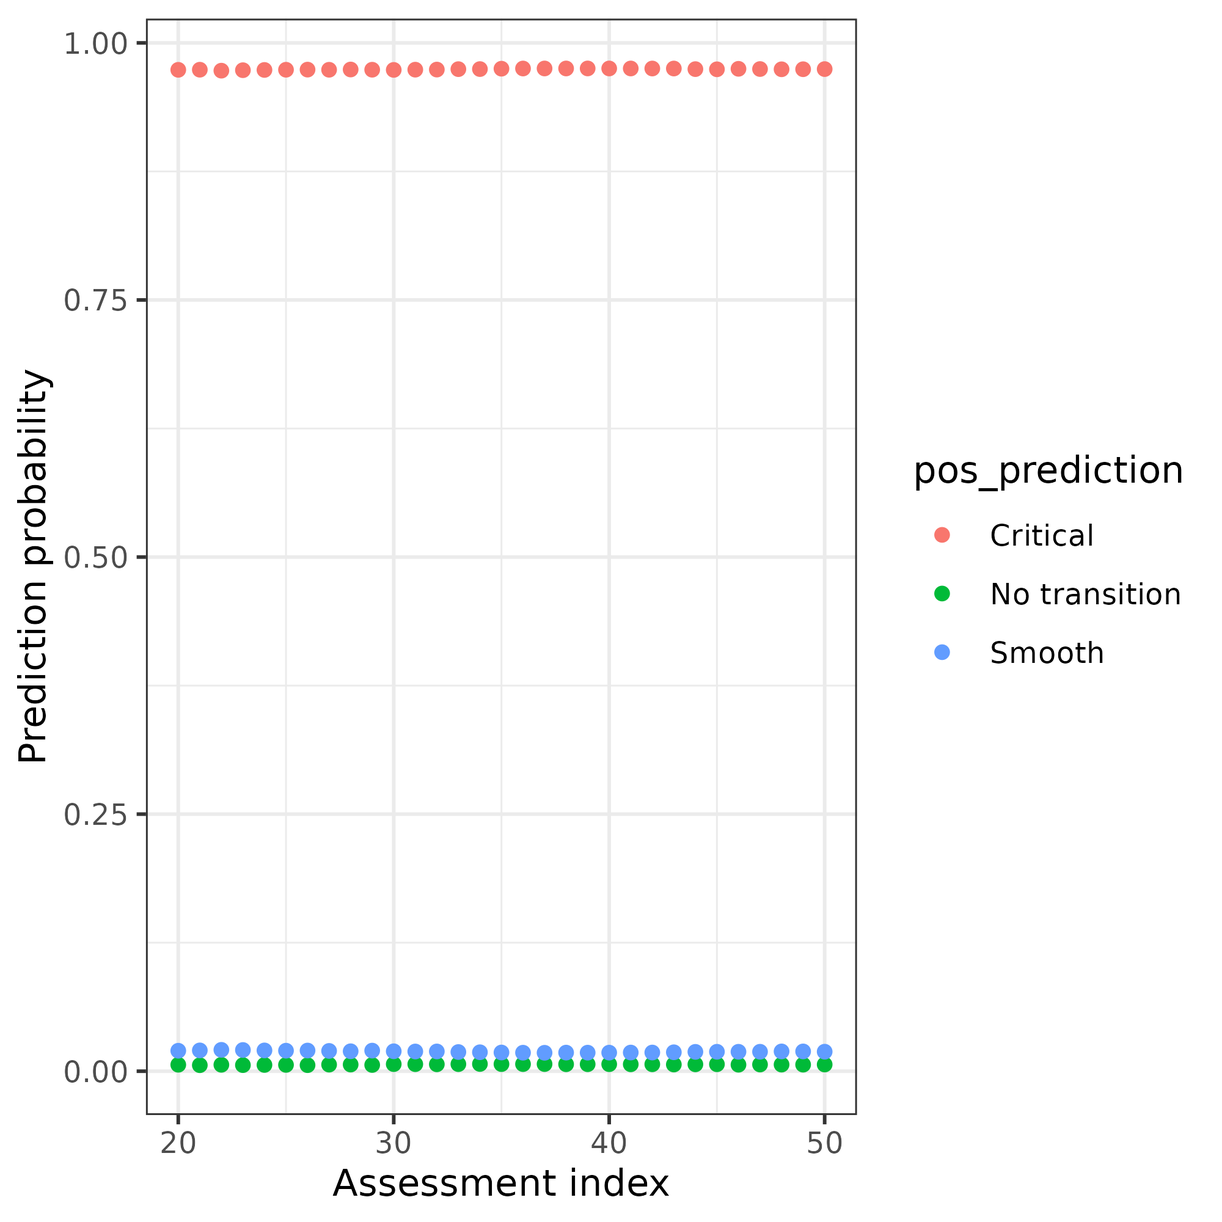
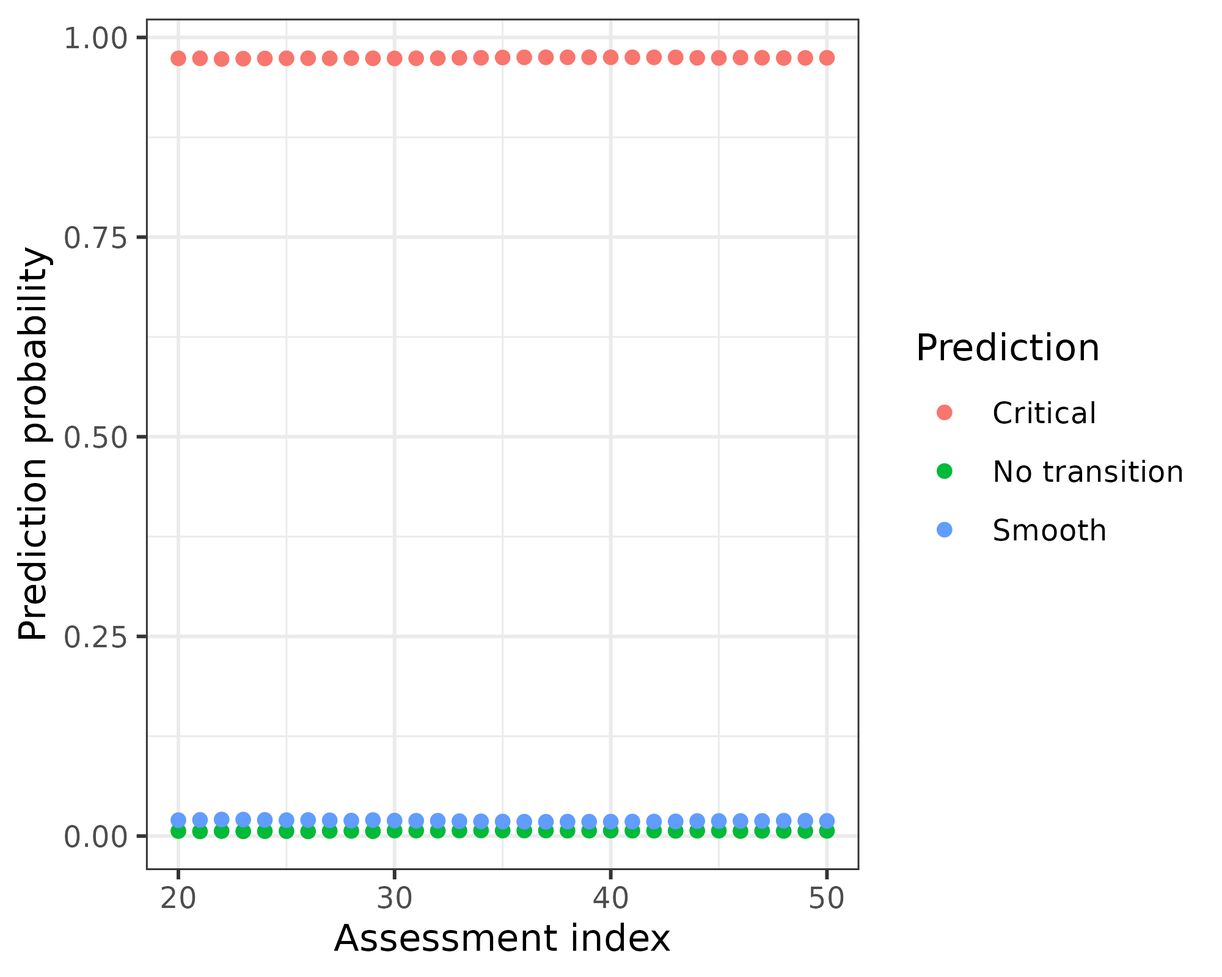
Deploying to gh-pages from @ duncanobrien/EWSmethods@8f3fbf997d17ccd20e7acf4d56fad8eb17029129 🚀

diff --git a/articles/using_ewsnet.html b/articles/using_ewsnet.html
@@ -114,7 +114,8 @@
 <p>Rather than requiring the user to learn <code>reticulate</code> and setup the R session themselves, <code>EWSmethods</code> provides a single function capable of checking your machine for Python, installing it if it’s not found (along with the critical packages), creating a new Python environment to hold these packages, and then activating that environment when ready. To prevent the user accidentally installing Python or packages, the function does require confirmation inputs from the user and so needs to be run <strong>at the start of any new R session</strong>.</p>
 <p>For example, to create a new Python environment called <code>"EWSNET_env"</code> and install Python, the function would be written as below. The environment name (<code>"EWSNET_env"</code>) will be critical to running the later functions.</p>
 <div class="sourceCode" id="cb2"><pre class="downlit sourceCode r">
-<code class="sourceCode R"><span><span class="fu"><a href="../reference/EWSNET_init.html">ewsnet_init</a></span><span class="op">(</span>envname <span class="op">=</span> <span class="st">"EWSNET_env"</span>, pip_ignore_installed <span class="op">=</span> <span class="cn">FALSE</span>,  conda_refresh <span class="op">=</span> <span class="cn">FALSE</span>, auto<span class="op">=</span><span class="cn">T</span><span class="op">)</span> <span class="co">#prepares your session using 'reticulate' and asks to install Anaconda (if no appropriate Python found) and/or a Python environment before activating that environment with the necessary Python packages</span></span>
+<code class="sourceCode R"><span><span class="co">#prepares your session using 'reticulate' and asks to install Anaconda (if no appropriate Python found) and/or a Python environment before activating that environment with the necessary Python packages</span></span>
+<span><span class="fu"><a href="../reference/EWSNET_init.html">ewsnet_init</a></span><span class="op">(</span>envname <span class="op">=</span> <span class="st">"EWSNET_env"</span>, pip_ignore_installed <span class="op">=</span> <span class="cn">FALSE</span>,  conda_refresh <span class="op">=</span> <span class="cn">FALSE</span>, auto<span class="op">=</span><span class="cn">TRUE</span><span class="op">)</span> </span>
 <span><span class="co">#&gt; + '/usr/share/miniconda/bin/conda' 'create' '--yes' '--name' 'EWSNET_env' 'python=3.8' '--quiet'</span></span>
 <span><span class="co">#&gt; EWSNET_env successfully installed and activated. Necessary python packages installed</span></span></code></pre></div>
 <p>If successful, you will see the message <code>"EWSNET_env successfully found and activated. Necessary Python packages installed"</code>). If not, please refer to the Troubleshooting section at the end of the tutorial.</p>
@@ -122,6 +123,7 @@
 <div class="sourceCode" id="cb3"><pre class="downlit sourceCode r">
 <code class="sourceCode R"><span><span class="kw"><a href="https://rdrr.io/r/base/library.html" class="external-link">library</a></span><span class="op">(</span><span class="va"><a href="https://rstudio.github.io/reticulate/" class="external-link">reticulate</a></span><span class="op">)</span></span>
 <span></span>
+<span><span class="co">#print which Python environment `EWSmethods` is using</span></span>
 <span><span class="fu">reticulate</span><span class="fu">::</span><span class="fu"><a href="https://rstudio.github.io/reticulate/reference/py_config.html" class="external-link">py_config</a></span><span class="op">(</span><span class="op">)</span></span>
 <span><span class="co">#&gt; python:         /usr/share/miniconda/envs/EWSNET_env/bin/python</span></span>
 <span><span class="co">#&gt; libpython:      /usr/share/miniconda/envs/EWSNET_env/lib/libpython3.8.so</span></span>
@@ -132,7 +134,8 @@
 <span><span class="co">#&gt; </span></span>
 <span><span class="co">#&gt; NOTE: Python version was forced by use_python function</span></span>
 <span></span>
-<span><span class="va">py_packages</span> <span class="op">&lt;-</span> <span class="fu">reticulate</span><span class="fu">::</span><span class="fu"><a href="https://rstudio.github.io/reticulate/reference/py_list_packages.html" class="external-link">py_list_packages</a></span><span class="op">(</span><span class="op">)</span> <span class="co">#list all packages currently loaded in to "EWSNET_env"</span></span>
+<span><span class="co">#list all packages currently loaded in to "EWSNET_env"</span></span>
+<span><span class="va">py_packages</span> <span class="op">&lt;-</span> <span class="fu">reticulate</span><span class="fu">::</span><span class="fu"><a href="https://rstudio.github.io/reticulate/reference/py_list_packages.html" class="external-link">py_list_packages</a></span><span class="op">(</span><span class="op">)</span> </span>
 <span><span class="fu"><a href="https://rdrr.io/r/utils/head.html" class="external-link">head</a></span><span class="op">(</span><span class="va">py_packages</span><span class="op">)</span></span>
 <span><span class="co">#&gt;         package version       requirement   channel</span></span>
 <span><span class="co">#&gt; 1 _libgcc_mutex     0.1 _libgcc_mutex=0.1 pkgs/main</span></span>
@@ -151,11 +154,7 @@
 <code class="sourceCode R"><span><span class="va">test_data</span> <span class="op">&lt;-</span> <span class="fu"><a href="https://rdrr.io/r/stats/Normal.html" class="external-link">rnorm</a></span><span class="op">(</span><span class="fl">50</span>,mean <span class="op">=</span> <span class="fl">0</span>, sd<span class="op">=</span><span class="fl">2</span><span class="op">)</span></span>
 <span></span>
 <span><span class="fu"><a href="https://rdrr.io/r/graphics/plot.default.html" class="external-link">plot</a></span><span class="op">(</span><span class="va">test_data</span><span class="op">)</span></span></code></pre></div>
-<div class="figure">
-<img src="using_ewsnet_files/figure-html/create_white_data-1.png" alt="Our white noise training data" width="1000"><p class="caption">
-Our white noise training data
-</p>
-</div>
+<p><img src="using_ewsnet_files/figure-html/create_white_data-1.png" width="1000"></p>
 <p>We then simply provide this vector to <code><a href="../reference/ewsnet_predict.html">ewsnet_predict()</a></code> while also specifying the Python environment, the scaling of the data and ensemble number (how many models to average the prediction over).</p>
 <div class="sourceCode" id="cb5"><pre class="downlit sourceCode r">
 <code class="sourceCode R"><span><span class="va">ewsnet_prediction</span> <span class="op">&lt;-</span> <span class="fu"><a href="../reference/ewsnet_predict.html">ewsnet_predict</a></span><span class="op">(</span><span class="va">test_data</span>,noise_type <span class="op">=</span> <span class="st">"W"</span>, ensemble <span class="op">=</span> <span class="fl">25</span>, envname <span class="op">=</span> <span class="st">"EWSNET_env"</span><span class="op">)</span> </span>
@@ -166,37 +165,37 @@ Our white noise training data
 <div class="section level4">
 <h4 id="interpreting-ewsnet">Interpreting EWSNet<a class="anchor" aria-label="anchor" href="#interpreting-ewsnet"></a>
 </h4>
-<p>As with any machine learning model, interpreting prediction probabilities is difficult. In EWSNet’s case, as three possible predictions can be made - _No transition, Smooth transition, Critical transition__ - a chance prediction is one that is approximately 0.33 (1.0 divided by 3 is ~0.33).</p>
+<p>As with any machine learning model, interpreting prediction probabilities is difficult. In EWSNet’s case, as three possible predictions can be made - <em>No transition, Smooth transition, Critical transition</em> - a chance prediction is one that is approximately 0.33 (1.0 divided by 3 is ~0.33).</p>
 <p>Therefore any probability greater than 0.33 implies a stronger than chance prediction and anything greater than 0.6 warrants serious scrutiny.</p>
-<p>Similarly, the real world manifestation of a Smooth or Critical transition is vague (Kefi <em>et al</em> 2013, Gsell <em>et al</em> 2016). EWSNet therefore considers a <code>"Smooth Transition"</code> prediction to indicate a directional trend in the system whereas a <code>"Critical Transition"</code> indicates a rapid non-linear change. A <code>"No Transition"</code> prediction consequently suggests a stable period.</p>
+<p>Similarly, the real world manifestation of a Smooth or Critical transition is unclear (Kefi <em>et al</em> 2013, Gsell <em>et al</em> 2016). EWSNet therefore considers a <code>"Smooth Transition"</code> prediction to indicate a directional trend in the system whereas a <code>"Critical Transition"</code> indicates a rapid non-linear change. A <code>"No Transition"</code> prediction consequently suggests a stable period.</p>
 </div>
 <div class="section level4">
 <h4 id="predictions-through-time">Predictions through time<a class="anchor" aria-label="anchor" href="#predictions-through-time"></a>
 </h4>
 <p>An additional way to use EWSNet is to explore how predictions change through time. By iteratively adding in new data, we can see how those predictions evolve.</p>
-<p>For example, using our test data, we could achieve this using this code to identify transitions that may have happened in the past:</p>
+<p>For example, using our test data, we could use this code to identify transitions that may have happened in the past:</p>
 <div class="sourceCode" id="cb6"><pre class="downlit sourceCode r">
 <code class="sourceCode R"><span></span>
-<span><span class="va">expanding_range</span> <span class="op">&lt;-</span> <span class="fl">20</span><span class="op">:</span><span class="fu"><a href="https://rdrr.io/r/base/length.html" class="external-link">length</a></span><span class="op">(</span><span class="va">test_data</span><span class="op">)</span> <span class="co">#define the range of indexes to test over</span></span>
+<span><span class="co">#define the range of indexes to test over</span></span>
+<span><span class="va">expanding_range</span> <span class="op">&lt;-</span> <span class="fl">20</span><span class="op">:</span><span class="fu"><a href="https://rdrr.io/r/base/length.html" class="external-link">length</a></span><span class="op">(</span><span class="va">test_data</span><span class="op">)</span> </span>
 <span></span>
+<span><span class="co">#pre-define our out file</span></span>
 <span><span class="va">expanding_ewsnet</span> <span class="op">&lt;-</span> <span class="fu"><a href="https://rdrr.io/r/base/data.frame.html" class="external-link">data.frame</a></span><span class="op">(</span><span class="va">expanding_range</span>, <span class="fu"><a href="https://rdrr.io/r/base/matrix.html" class="external-link">matrix</a></span><span class="op">(</span><span class="cn">NA</span>,ncol<span class="op">=</span><span class="fl">3</span> <span class="op">)</span><span class="op">)</span> <span class="op">|&gt;</span></span>
-<span>  <span class="fu">`colnames&lt;-`</span><span class="op">(</span><span class="fu"><a href="https://rdrr.io/r/base/c.html" class="external-link">c</a></span><span class="op">(</span><span class="st">"cutoff_ind"</span>,<span class="st">"No transition"</span>,<span class="st">'Smooth'</span>,<span class="st">'Critical'</span><span class="op">)</span><span class="op">)</span> <span class="co">#pre-define our out file</span></span>
+<span>  <span class="fu">`colnames&lt;-`</span><span class="op">(</span><span class="fu"><a href="https://rdrr.io/r/base/c.html" class="external-link">c</a></span><span class="op">(</span><span class="st">"cutoff_ind"</span>,<span class="st">"No transition"</span>,<span class="st">'Smooth'</span>,<span class="st">'Critical'</span><span class="op">)</span><span class="op">)</span> </span>
 <span></span>
-<span><span class="kw">for</span><span class="op">(</span><span class="va">i</span> <span class="kw">in</span> <span class="fu"><a href="https://rdrr.io/r/base/seq.html" class="external-link">seq_along</a></span><span class="op">(</span><span class="va">expanding_range</span><span class="op">)</span><span class="op">)</span><span class="op">{</span> <span class="co">#use `ewsnet_predict()` for each index </span></span>
+<span><span class="co">#call `ewsnet_predict()` for each index </span></span>
+<span><span class="kw">for</span><span class="op">(</span><span class="va">i</span> <span class="kw">in</span> <span class="fu"><a href="https://rdrr.io/r/base/seq.html" class="external-link">seq_along</a></span><span class="op">(</span><span class="va">expanding_range</span><span class="op">)</span><span class="op">)</span><span class="op">{</span> </span>
 <span>  <span class="va">ews.tmp</span> <span class="op">&lt;-</span> <span class="fu"><a href="../reference/ewsnet_predict.html">ewsnet_predict</a></span><span class="op">(</span><span class="va">test_data</span><span class="op">[</span><span class="fl">1</span><span class="op">:</span><span class="va">expanding_range</span><span class="op">[</span><span class="va">i</span><span class="op">]</span><span class="op">]</span>,noise_type <span class="op">=</span> <span class="st">"W"</span>, ensemble <span class="op">=</span> <span class="fl">25</span>, envname <span class="op">=</span> <span class="st">"EWSNET_env"</span><span class="op">)</span> </span>
 <span>  </span>
 <span>  <span class="va">expanding_ewsnet</span><span class="op">[</span><span class="va">i</span>,<span class="op">]</span> <span class="op">&lt;-</span> <span class="fu"><a href="https://rdrr.io/r/base/c.html" class="external-link">c</a></span><span class="op">(</span><span class="va">expanding_range</span><span class="op">[</span><span class="va">i</span><span class="op">]</span>,<span class="va">ews.tmp</span><span class="op">$</span><span class="va">no_trans_prob</span>,<span class="va">ews.tmp</span><span class="op">$</span><span class="va">smooth_trans_prob</span>,<span class="va">ews.tmp</span><span class="op">$</span><span class="va">critical_trans_prob</span><span class="op">)</span></span>
 <span><span class="op">}</span></span>
 <span></span>
-<span><span class="fu">ggplot</span><span class="op">(</span><span class="va">expanding_ewsnet</span> <span class="op">|&gt;</span> <span class="fu">pivot_longer</span><span class="op">(</span><span class="op">-</span><span class="va">cutoff_ind</span>,names_to <span class="op">=</span> <span class="st">"pos_prediction"</span>,values_to <span class="op">=</span> <span class="st">"prob"</span><span class="op">)</span>,</span>
+<span><span class="co">#plot the results</span></span>
+<span><span class="fu">ggplot</span><span class="op">(</span><span class="va">expanding_ewsnet</span> <span class="op">|&gt;</span> <span class="fu">pivot_longer</span><span class="op">(</span><span class="op">-</span><span class="va">cutoff_ind</span>,names_to <span class="op">=</span> <span class="st">"Prediction"</span>,values_to <span class="op">=</span> <span class="st">"prob"</span><span class="op">)</span>,</span>
 <span>                <span class="fu">aes</span><span class="op">(</span>x<span class="op">=</span><span class="va">cutoff_ind</span>,y<span class="op">=</span><span class="va">prob</span><span class="op">)</span><span class="op">)</span> <span class="op">+</span></span>
-<span>    <span class="fu">geom_point</span><span class="op">(</span><span class="fu">aes</span><span class="op">(</span>col<span class="op">=</span><span class="va">pos_prediction</span><span class="op">)</span><span class="op">)</span> <span class="op">+</span> <span class="fu">theme_bw</span><span class="op">(</span><span class="op">)</span> <span class="op">+</span></span>
+<span>    <span class="fu">geom_point</span><span class="op">(</span><span class="fu">aes</span><span class="op">(</span>col<span class="op">=</span><span class="va">Prediction</span><span class="op">)</span><span class="op">)</span> <span class="op">+</span> <span class="fu">theme_bw</span><span class="op">(</span><span class="op">)</span> <span class="op">+</span></span>
 <span>    <span class="fu">xlab</span><span class="op">(</span><span class="st">"Assessment index"</span><span class="op">)</span> <span class="op">+</span> <span class="fu">ylab</span><span class="op">(</span><span class="st">"Prediction probability"</span><span class="op">)</span></span></code></pre></div>
-<div class="figure">
-<img src="using_ewsnet_files/figure-html/expanding_ewsnet-1.png" alt="Changing EWSNet predictions through time" width="1000"><p class="caption">
-Changing EWSNet predictions through time
-</p>
-</div>
+<p><img src="using_ewsnet_files/figure-html/expanding_ewsnet-1.png" width="1000"></p>
 <p>Here we see how prediction probabilities fluctuate with new data, with the trends in probabilities also providing information on how the system has changed over time.</p>
 <p><br></p>
 </div>
@@ -210,12 +209,12 @@ Changing EWSNet predictions through time
 <div class="section level3">
 <h3 id="resetting-ewsnet">4. Resetting EWSNet<a class="anchor" aria-label="anchor" href="#resetting-ewsnet"></a>
 </h3>
-<p>Following finetuning, it may be desirable to reset the model weights to their default. Using the <code><a href="../reference/reset_ewsnet.html">reset_ewsnet()</a></code> function, the user can direct <code>EWSmethods</code> to the path of the default weights (these can be redownloaded from the <a href="(https://github.com/sahilsid/ewsnet)" class="external-link">EWSNet github</a> which will overwrite the current model weights stored by <code>EWSmethods</code>.</p>
+<p>Following finetuning, it may be desirable to reset the model weights to their default. Using the <code><a href="../reference/reset_ewsnet.html">reset_ewsnet()</a></code> function, the user can direct <code>EWSmethods</code> to the path of the default weights (these can be redownloaded from the <a href="https://github.com/sahilsid/ewsnet" class="external-link">EWSNet github</a>) which will overwrite the current model weights stored by <code>EWSmethods</code>.</p>
 <div class="sourceCode" id="cb7"><pre class="downlit sourceCode r">
 <code class="sourceCode R"><span><span class="fu"><a href="../reference/reset_ewsnet.html">reset_ewsnet</a></span><span class="op">(</span>new_weight_location <span class="op">=</span> <span class="st">"C:/Users/your_name/Downloads/Pretrained"</span><span class="op">)</span> <span class="co">#for Windows users</span></span>
 <span></span>
 <span><span class="fu"><a href="../reference/reset_ewsnet.html">reset_ewsnet</a></span><span class="op">(</span>new_weight_location <span class="op">=</span> <span class="st">"/Users/your_name/Downloads/Pretrained"</span><span class="op">)</span> <span class="co">#for Mac users</span></span></code></pre></div>
-<p>You may want to remove <code>EWSmethods</code> downloaded Python and environment. You can acheive this using <code><a href="../reference/EWSNET_init.html">ewsnet_init()</a></code> and the <code>conda_refresh =</code> argument.</p>
+<p>You may want to remove Python downloads and environment setup by <code>EWSmethods</code>. You can acheive this using <code><a href="../reference/EWSNET_init.html">ewsnet_init()</a></code> and the <code>conda_refresh =</code> argument.</p>
 <div class="sourceCode" id="cb8"><pre class="downlit sourceCode r">
 <code class="sourceCode R"><span><span class="fu"><a href="../reference/EWSNET_init.html">ewsnet_init</a></span><span class="op">(</span>envname <span class="op">=</span> <span class="st">"EWSNET_env"</span>,conda_refresh <span class="op">=</span> <span class="cn">TRUE</span><span class="op">)</span></span></code></pre></div>
 <p><br></p>
@@ -236,7 +235,7 @@ Changing EWSNet predictions through time
 <tbody>
 <tr class="odd">
 <td><code><a href="../reference/EWSNET_init.html">ewsnet_init()</a></code></td>
-<td>Prepares the session to interface with Python. <strong>Critical first step</strong>
+<td>Prepares the session to interface with Python. <em>Critical first step</em>
 </td>
 </tr>
 <tr class="even">
@@ -263,15 +262,15 @@ Changing EWSNet predictions through time
 <div class="section level3">
 <h3 id="reticulate-is-activating-a-different-environment-to-the-one-i-gave-to-ewsnet_init">1. <em><code>reticulate</code> is activating a different environment to the one I gave to <code>ewsnet_init()</code></em><a class="anchor" aria-label="anchor" href="#reticulate-is-activating-a-different-environment-to-the-one-i-gave-to-ewsnet_init"></a>
 </h3>
-<p>This is the main error when using <code>EWSmethods</code>. The first solution is to simply restart the R session and rerun <code><a href="../reference/EWSNET_init.html">ewsnet_init()</a></code>. If <code>reticulate</code> is loaded before <code><a href="../reference/EWSNET_init.html">ewsnet_init()</a></code> is run, then the default <code>reticulate</code> environment “r-reticulate’ is activated instead of your EWSNet environment. Therefore ensure no <code>reticulate</code> command or <code><a href="https://rstudio.github.io/reticulate/" class="external-link">library(reticulate)</a></code> is run prior to <code><a href="../reference/EWSNET_init.html">ewsnet_init()</a></code>.</p>
-<p>If the error remains and your RStudio version &gt;=1.4, you may need to edit your Python interpreter settings in RStudio’s preferences. Go to Preferences -&gt; Python and untick “Automatically activate project-level Python environments”. Then restart your R session and rerun <code><a href="../reference/EWSNET_init.html">ewsnet_init()</a></code>.</p>
-<p>The final solution we are aware of involves deactivating <code>reticulate</code>’s default behaviour in your global R environment settings. Running <code><a href="../reference/bypass_reticulate_autoinit.html">bypass_reticulate_autoinit()</a></code> will turn off <code>reticulate</code>’s to load a Python environment without a user request. Restart your R session and rerun <code><a href="../reference/EWSNET_init.html">ewsnet_init()</a></code> once ready.</p>
+<p>This is the main error when using <code>EWSmethods</code>. The first solution is to simply restart the R session and rerun <code><a href="../reference/EWSNET_init.html">ewsnet_init()</a></code>. If <code>reticulate</code> is loaded before <code><a href="../reference/EWSNET_init.html">ewsnet_init()</a></code> is run, then the default <code>reticulate</code> environment <code>"r-reticulate"</code> is activated instead of your EWSNet environment. Therefore ensure no <code>reticulate</code> command or <code><a href="https://rstudio.github.io/reticulate/" class="external-link">library(reticulate)</a></code> is run prior to <code><a href="../reference/EWSNET_init.html">ewsnet_init()</a></code>.</p>
+<p>If the error remains and your RStudio version is &gt;=1.4, you may need to edit your Python interpreter settings in RStudio’s preferences. Go to Preferences -&gt; Python and untick “Automatically activate project-level Python environments”. Then restart your R session and rerun <code><a href="../reference/EWSNET_init.html">ewsnet_init()</a></code>.</p>
+<p>The final solution we are aware of involves deactivating <code>reticulate</code>’s default behaviour in your global R environment settings. Running <code><a href="../reference/bypass_reticulate_autoinit.html">bypass_reticulate_autoinit()</a></code> will disable <code>reticulate</code>’s ability to load a Python environment without a user request. Restart your R session and rerun <code><a href="../reference/EWSNET_init.html">ewsnet_init()</a></code> once ready.</p>
 <p><br></p>
 </div>
 <div class="section level3">
 <h3 id="ewsnet_predict-is-returning-python-errors">2. <em><code>ewsnet_predict()</code> is returning Python errors</em><a class="anchor" aria-label="anchor" href="#ewsnet_predict-is-returning-python-errors"></a>
 </h3>
-<p>These errors are extremely difficult to debug through R . Fortunately, in our experience, such errors are legacies of previous issues such as incorrect initialising of the Python environment, the crashing of an R session or killing of the running function. The error is therefore often solved by restarting the R session and rerunning <code><a href="../reference/EWSNET_init.html">ewsnet_init()</a></code>.</p>
+<p>These errors are extremely difficult to debug through R . Fortunately, in our experience, such errors are legacies of previous issues such as incorrect initialising of the Python environment, the crashing of an R session, or killing of the running function. The error is therefore often solved by restarting the R session and rerunning <code><a href="../reference/EWSNET_init.html">ewsnet_init()</a></code>.</p>
 <p>If the error remains, please submit a bug report <a href="https://github.com/duncanobrien/EWSmethods/issues" class="external-link">here</a>.</p>
 <p><br></p>
 </div>

diff --git a/reference/EWSNET_init.html b/reference/EWSNET_init.html
@@ -60,7 +60,12 @@
 
     <div class="section level2">
     <h2 id="ref-usage">Usage<a class="anchor" aria-label="anchor" href="#ref-usage"></a></h2>
-    <div class="sourceCode"><pre class="sourceCode r"><code><span><span class="fu">ewsnet_init</span><span class="op">(</span><span class="va">envname</span>, pip_ignore_installed <span class="op">=</span> <span class="cn">FALSE</span>, conda_refresh <span class="op">=</span> <span class="cn">F</span>, auto <span class="op">=</span> <span class="cn">F</span><span class="op">)</span></span></code></pre></div>
+    <div class="sourceCode"><pre class="sourceCode r"><code><span><span class="fu">ewsnet_init</span><span class="op">(</span></span>
+<span>  <span class="va">envname</span>,</span>
+<span>  pip_ignore_installed <span class="op">=</span> <span class="cn">FALSE</span>,</span>
+<span>  conda_refresh <span class="op">=</span> <span class="cn">FALSE</span>,</span>
+<span>  auto <span class="op">=</span> <span class="cn">FALSE</span></span>
+<span><span class="op">)</span></span></code></pre></div>
     </div>
 
     <div class="section level2">
